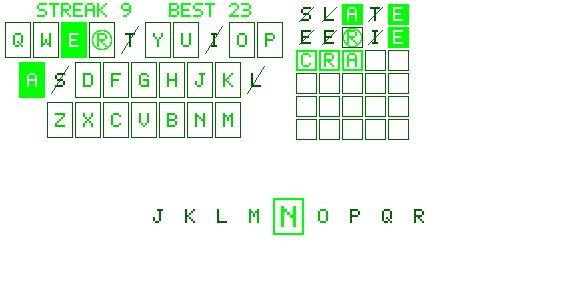
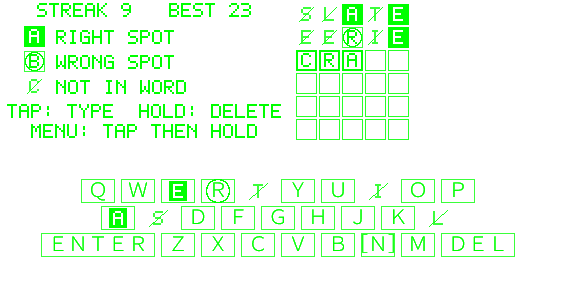
0.2.0: store screenshots and listing text for the keyboard
Play screenshots now come from the simulator (scripts/listing-sim.ts),
since the keyboard's letters are firmware text; a dev-only ?demo= URL
parameter starts on a fixed round from memory. Help and Stats stay
code-rendered. Keyboard help text without commas (shorter, and the pixel
font in the shots has none).

diff --git a/scripts/listing-shots.ts b/scripts/listing-shots.ts
@@ -1,20 +1,18 @@
 /**
- * Store-listing frames: the shipped layout (board on the right, horizontal
- * letter strip), rendered with the same code the glasses use.
+ * Store-listing Help and Stats frames, rendered with the same code the glasses use (firmware text drawn in
+ * the pixel font so the shot is readable). The play shots come from the simulator, because the keyboard's
+ * letters are firmware text: scripts/listing-sim.ts.
  *   npx tsx scripts/listing-shots.ts
  */
 import { mkdirSync, writeFileSync } from 'node:fs'
-import { stripItems } from '../src/config'
-import { keyMarks, type Round, type Stats } from '../src/game'
-import { renderBoard, type Message } from '../src/render/board'
+import { DEFAULT_SETTINGS } from '../src/config'
+import { DEMO_HISTORY } from '../src/demo'
 import { renderDistribution } from '../src/render/chart'
 import { Framebuffer } from '../src/render/framebuffer'
 import { renderHelp } from '../src/render/help'
-import { renderKeys } from '../src/render/keys'
 import { IMAGE_H, IMAGE_W } from '../src/render/layout'
 import { encodeDisplayPng } from '../src/render/png'
-import { renderStrip } from '../src/render/strip'
-import { STRIP_POS, statsText } from '../src/pages'
+import { helpText, statsText } from '../src/pages'
 
 const OUT = 'docs/screenshots'
 const SCALE = 1
@@ -27,15 +25,6 @@ function scaled(fb: Framebuffer): Uint8Array {
   const big = new Framebuffer(fb.width * SCALE, fb.height * SCALE)
   for (let y = 0; y < big.height; y++) for (let x = 0; x < big.width; x++) big.set(x, y, fb.get(Math.floor(x / SCALE), Math.floor(y / SCALE)))
   return encodeDisplayPng(big)
-}
-
-function playScreen(round: Round, message: Message | null, stats: Stats, stripLabel: string): Framebuffer {
-  const items = stripItems('alphabetical')
-  const screen = new Framebuffer(576, 288)
-  blit(screen, renderKeys(keyMarks(round.guesses, round.target), stats), 0, 0)
-  blit(screen, renderBoard(round, message), IMAGE_W, 0)
-  blit(screen, renderStrip(items, items.indexOf(stripLabel)), STRIP_POS.x, STRIP_POS.y)
-  return screen
 }
 
 /** Firmware text band, drawn in the same pixel font so the shot is readable. */
@@ -67,81 +56,17 @@ function drawLines(fb: Framebuffer, text: string, x: number, y: number, maxW: nu
   }
 }
 
-/** A long run: wins in every bucket, and enough losses that the outline bar is obvious. */
-const HISTORY: Stats = {
-  streak: 9,
-  best: 23,
-  played: 186,
-  wins: 142,
-  dist: [8, 22, 41, 38, 21, 12, 44],
-  last: 3,
-}
-
-const shots: Array<[string, Framebuffer]> = [
-  [
-    '01-playing',
-    playScreen({ target: 'crane', guesses: ['slate', 'eerie'], typed: 'cra' }, null, HISTORY, 'N'),
-  ],
-  [
-    '02-win',
-    playScreen(
-      { target: 'crane', guesses: ['slate', 'eerie', 'crane'], typed: '' },
-      { kind: 'win', guesses: 3 },
-      { ...HISTORY, streak: 10 },
-      'A',
-    ),
-  ],
-  [
-    '03-not-in-list',
-    playScreen(
-      { target: 'crane', guesses: ['slate'], typed: 'xxxxx' },
-      { kind: 'invalid', text: 'NOT IN LIST' },
-      HISTORY,
-      'ENTER',
-    ),
-  ],
-  [
-    '06-mid-guess',
-    playScreen({ target: 'crane', guesses: ['slate'], typed: 'mo' }, null, HISTORY, 'U'),
-  ],
-  [
-    '07-mid-guess-late',
-    playScreen({ target: 'crane', guesses: ['slate', 'mourn', 'eerie'], typed: 'cr' }, null, HISTORY, 'A'),
-  ],
-  [
-    '08-winner',
-    playScreen(
-      { target: 'crane', guesses: ['slate', 'mourn', 'eerie', 'crane'], typed: '' },
-      { kind: 'win', guesses: 4 },
-      { ...HISTORY, streak: 10, best: 23 },
-      'A',
-    ),
-  ],
-  [
-    '09-loser',
-    playScreen(
-      { target: 'abbey', guesses: ['slate', 'crane', 'mourn', 'ghoul', 'fizzy', 'wacky'], typed: '' },
-      { kind: 'loss', answer: 'abbey' },
-      { ...HISTORY, streak: 0, last: 6 },
-      'A',
-    ),
-  ],
-]
+const shots: Array<[string, Framebuffer]> = []
 
 const help = new Framebuffer(576, 288)
 blit(help, renderHelp(), (576 - IMAGE_W) / 2, 0)
-drawLines(
-  help,
-  'SWIPE TO MOVE ALONG THE LETTERS.\nTAP TO TYPE. HOLD TO DELETE.\nMENU: TAP THEN HOLD.\nDOUBLE-TAP TO EXIT.',
-  16,
-  IMAGE_H + 20,
-  544,
-)
+// The pixel font has no comma; the firmware text on the glasses does.
+drawLines(help, helpText(DEFAULT_SETTINGS).toUpperCase().replaceAll(',', ''), 16, IMAGE_H + 20, 544)
 shots.push(['04-help', help])
 
 const stats = new Framebuffer(576, 288)
-drawLines(stats, statsText(HISTORY), 16, 20, IMAGE_W - 28)
-blit(stats, renderDistribution(HISTORY.dist, HISTORY.last), IMAGE_W, (288 - IMAGE_H) / 2)
+drawLines(stats, statsText(DEMO_HISTORY), 16, 20, IMAGE_W - 28)
+blit(stats, renderDistribution(DEMO_HISTORY.dist, DEMO_HISTORY.last), IMAGE_W, (288 - IMAGE_H) / 2)
 shots.push(['05-stats', stats])
 
 mkdirSync(OUT, { recursive: true })

diff --git a/scripts/listing-sim.ts b/scripts/listing-sim.ts
@@ -1,0 +1,88 @@
+/**
+ * Store-listing play screenshots from evenhub-simulator: the keyboard's letters are firmware text, which only
+ * the simulator (or the glasses) draws. Each shot starts the app on a fixed round (`?demo=`, see src/demo.ts),
+ * optionally sends gestures, and saves the glasses screenshot (green on transparent, 576×288, like the
+ * code-rendered help and stats shots from listing-shots.ts).
+ *   npx tsx scripts/listing-sim.ts
+ */
+import { spawn, type ChildProcess } from 'node:child_process'
+import { existsSync, mkdirSync, writeFileSync } from 'node:fs'
+import { createRequire } from 'node:module'
+import { dirname, join } from 'node:path'
+
+const OUT = 'docs/screenshots'
+const PORT = 5173
+const API = 'http://127.0.0.1:9898/api'
+
+type Input = 'up' | 'down' | 'click'
+interface Shot {
+  name: string
+  /** target:guesses (dot-separated):typed */
+  demo: string
+  focus: string
+  /** Gestures after start, e.g. a click on ENTER to show the win or loss message. */
+  inputs?: Input[]
+}
+
+const SHOTS: Shot[] = [
+  { name: '01-playing', demo: 'crane:slate.eerie:cra', focus: 'N' },
+  { name: '02-win', demo: 'crane:slate.eerie:crane', focus: 'ENTER', inputs: ['click'] },
+  { name: '03-not-in-list', demo: 'crane:slate:xxxxx', focus: 'ENTER', inputs: ['click'] },
+  { name: '06-mid-guess', demo: 'crane:slate:mo', focus: 'U' },
+  { name: '07-mid-guess-late', demo: 'crane:slate.mourn.eerie:cr', focus: 'A' },
+  { name: '08-winner', demo: 'crane:slate.mourn.eerie:crane', focus: 'ENTER', inputs: ['click'] },
+  { name: '09-loser', demo: 'abbey:slate.crane.mourn.ghoul.fizzy:wacky', focus: 'ENTER', inputs: ['click'] },
+]
+
+const sleep = (ms: number) => new Promise((r) => setTimeout(r, ms))
+const procs: ChildProcess[] = []
+process.on('exit', () => procs.forEach((p) => p.kill()))
+
+async function waitFor(url: string): Promise<void> {
+  for (let i = 0; i < 60; i++) {
+    try {
+      if ((await fetch(url)).ok) return
+    } catch {
+      /* not up yet */
+    }
+    await sleep(500)
+  }
+  throw new Error(`timed out waiting for ${url}`)
+}
+
+function simBinary(): string {
+  const require = createRequire(import.meta.url)
+  const pkg = `@evenrealities/sim-${process.platform}-${process.arch}`
+  const exe = join(dirname(require.resolve(`${pkg}/package.json`)), 'bin', process.platform === 'win32' ? 'evenhub-simulator.exe' : 'evenhub-simulator')
+  if (!existsSync(exe)) throw new Error(`simulator binary not found at ${exe}`)
+  return exe
+}
+
+mkdirSync(OUT, { recursive: true })
+procs.push(spawn(process.execPath, [join('node_modules', 'vite', 'bin', 'vite.js'), '--port', String(PORT), '--strictPort'], { stdio: 'ignore' }))
+await waitFor(`http://localhost:${PORT}/`)
+
+for (const shot of SHOTS) {
+  const url = `http://localhost:${PORT}/?demo=${shot.demo}&focus=${shot.focus}`
+  const sim = spawn(simBinary(), [url, '--automation-port', '9898', '--no-glow'], { stdio: 'ignore' })
+  await waitFor(`${API}/ping`)
+  await sleep(4000)
+  for (const action of shot.inputs ?? []) {
+    await fetch(`${API}/input`, { method: 'POST', headers: { 'Content-Type': 'application/json' }, body: JSON.stringify({ action }) })
+    await sleep(2000)
+  }
+  const png = new Uint8Array(await (await fetch(`${API}/screenshot/glasses`)).arrayBuffer())
+  writeFileSync(join(OUT, `${shot.name}.png`), png)
+  console.log(`${OUT}/${shot.name}.png`)
+  sim.kill()
+  // The automation port must be free before the next simulator starts.
+  for (let i = 0; i < 20; i++) {
+    try {
+      await fetch(`${API}/ping`)
+      await sleep(300)
+    } catch {
+      break
+    }
+  }
+}
+process.exit(0)

diff --git a/src/demo.ts b/src/demo.ts
@@ -1,0 +1,44 @@
+/**
+ * Dev only: `?demo=crane:slate.eerie:cra&focus=N` starts on a given round (target, guesses, typed letters)
+ * with a long stats history, in memory, so store screenshots can be taken in the simulator
+ * (scripts/listing-sim.ts). Nothing is read from or written to the glasses' storage.
+ */
+import type { Stats } from './game'
+import { Storage, type KeyValueStore } from './storage'
+import { KB_KEYS } from './textkb'
+
+/** A long run: wins in every bucket, and enough losses that the outline bar is obvious. */
+export const DEMO_HISTORY: Stats = {
+  streak: 9,
+  best: 23,
+  played: 186,
+  wins: 142,
+  dist: [8, 22, 41, 38, 21, 12, 44],
+  last: 3,
+}
+
+export interface Demo {
+  kv: KeyValueStore
+  /** Keyboard focus (index into KB_KEYS). */
+  focus: number
+}
+
+export async function demoFromUrl(search: string): Promise<Demo | null> {
+  const q = new URLSearchParams(search)
+  const spec = q.get('demo')
+  if (!spec) return null
+  const [target, guesses = '', typed = ''] = spec.toLowerCase().split(':')
+  const data = new Map<string, string>()
+  const kv: KeyValueStore = {
+    get: async (k) => data.get(k) ?? '',
+    set: async (k, v) => {
+      data.set(k, v)
+      return true
+    },
+  }
+  const storage = new Storage(kv)
+  await storage.saveStats(DEMO_HISTORY)
+  await storage.saveRound({ target, guesses: guesses ? guesses.split('.') : [], typed })
+  const label = (q.get('focus') ?? 'Q').toUpperCase()
+  return { kv, focus: Math.max(0, KB_KEYS.findIndex((k) => k.label === label)) }
+}

diff --git a/src/main.ts b/src/main.ts
@@ -11,6 +11,7 @@ import {
 import { Wordlens, type Host } from './controller'
 import { EV, type RawEvent } from './input'
 import { DEFAULT_SETTINGS, NAMES, type Settings } from './config'
+import { demoFromUrl } from './demo'
 
 // input.ts mirrors the SDK enum to stay SDK-free for tests; fail loudly if they drift.
 const ENUM_PAIRS: Array<[number, number]> = [
@@ -119,7 +120,11 @@ const host: Host = {
   },
 }
 
+// Dev only (store screenshots): ?demo=… plays a fixed round from memory; see demo.ts.
+const demo = await demoFromUrl(location.search)
+if (demo) host.kv = demo.kv
 const app = new Wordlens(host, { settings })
+if (demo) app.kbFocus = demo.focus
 const unsubscribe = bridge.onEvenHubEvent((event) => {
   app.handle(event as RawEvent)
   const sys = event.sysEvent

diff --git a/src/pages.ts b/src/pages.ts
@@ -185,7 +185,7 @@ export function playPage(listPage: ListPage, settings: Settings, kbContent = kbT
 export function helpText(settings: Settings): string {
   const picking =
     settings.picker === 'keyboard'
-      ? ['Swipe to move along the keys, tap to type. Hold to delete.', 'Tap ENTER to guess. Menu: tap, then hold.']
+      ? ['Swipe to walk the keys. Tap types. Hold deletes.', 'Tap ENTER to guess. Menu: tap then hold.']
       : settings.picker === 'horizontal'
       ? ['Swipe to move along the letters, tap to type. Hold to delete.', 'Pick ENTER to guess. Menu: tap, then hold.']
       : ['Swipe to pick a letter, tap to type it. Hold to delete.', 'More letters: MORE >>.  Menu: tap, then hold.']

diff --git a/README.md b/README.md
@@ -14,6 +14,8 @@ npm run dev            # Vite on :5173
 npm run simulate       # in a second terminal: evenhub-simulator against :5173
 npm run qr             # QR code to sideload the dev server onto your phone
 npm run pack           # production build → wordlens.ehpk
+npx tsx scripts/listing-sim.ts    # store play screenshots from the simulator (keyboard text)
+npx tsx scripts/listing-shots.ts  # store Help and Stats screenshots
 ```
 
 Requires Even App ≥ 2.2.10 and SDK ≥ 0.0.15 (pinned in `package.json` / `app.json`).
